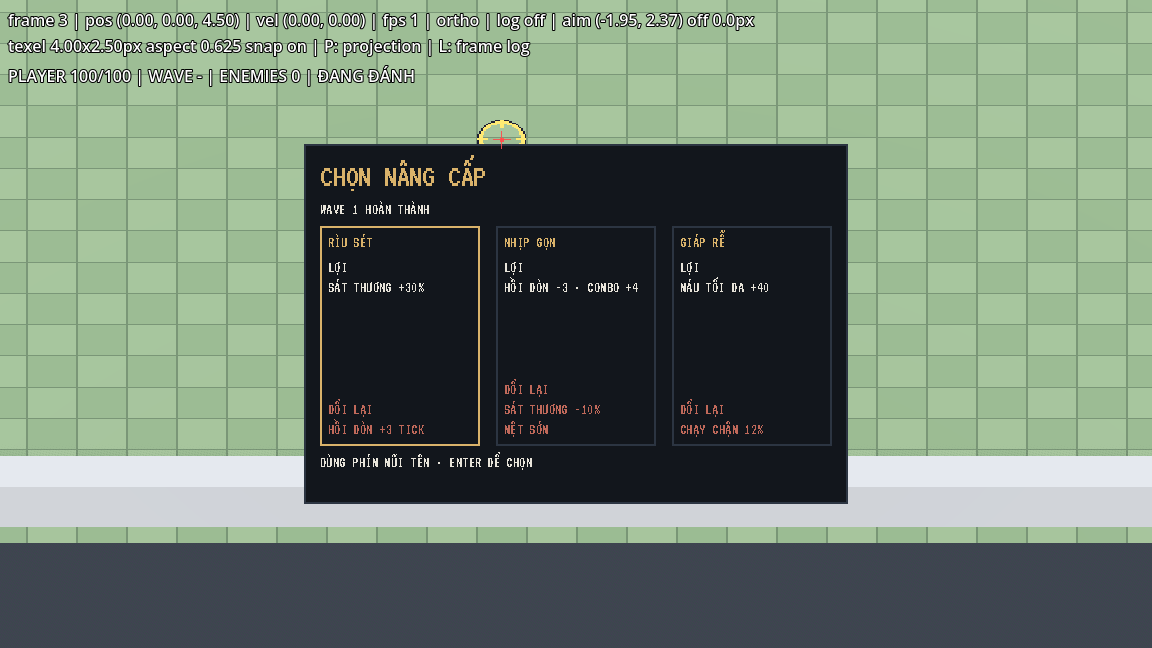
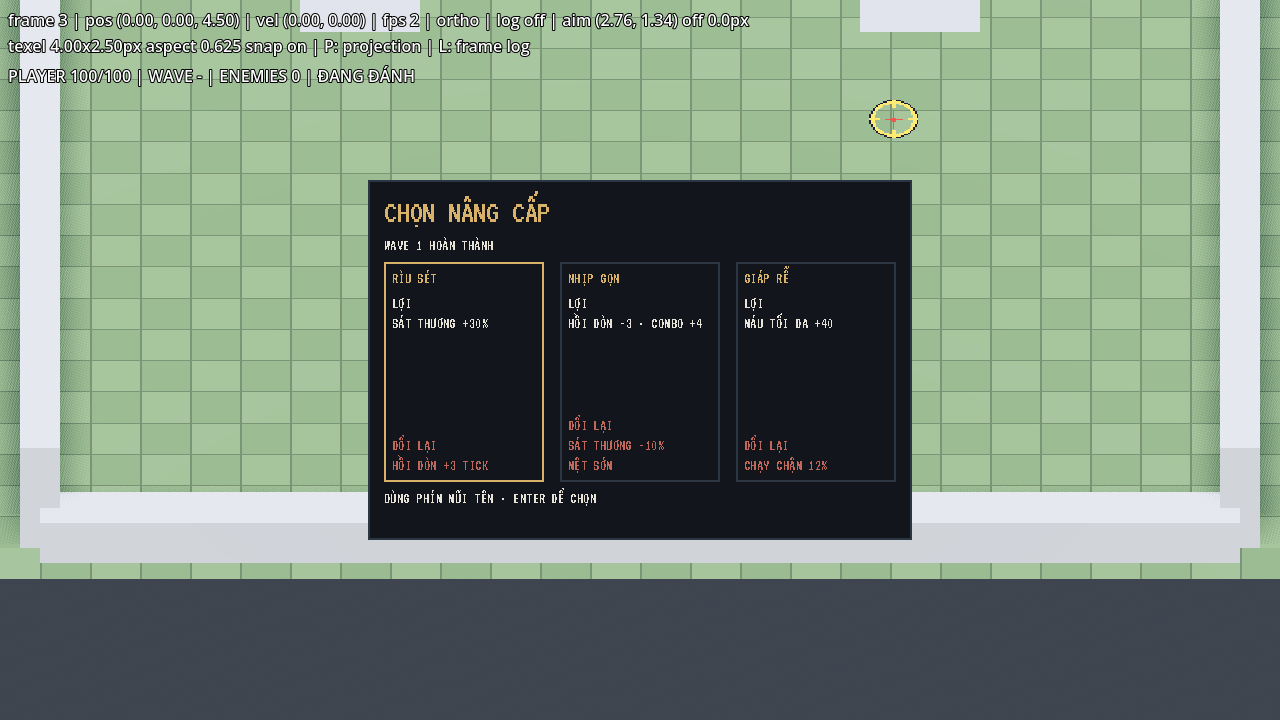
fix(T-030): keep card units and measure copy width
- Restore TICK on the two cost strings that fit the 144 px card area
  (RA ĐÒN CHẬM 2 TICK = 115.2 px, CỬA SỔ COMBO -4 TICK = 128 px) so the
  panel stops mixing units; no layout risk, both stay one line.
- Add T30.4 to test_buff_choice: load the shipped VT323 and assert every
  pool title/gain/cost line is <= 144 px, so a future copy edit cannot
  silently regress the width law.
- Re-capture the T-030 evidence at 1280x720 for consistency with the
  T-029/T-030 image sets; STATE drops the stale snake_case sheet issue,
  refreshes the script count (77) and buff_choice count (17); spec
  coverage now 98 glyphs.
- Validation: --import exit 0; test_font_coverage 3 checks / 98 glyphs
  exit 0 (negative exit 1); test_buff_choice 17 checks exit 0 (negative
  3/17 exit 1); capture checks=4 failures=0 band_diff=195840, control
  0 px; L2 grove_arena 120 frames exit 0, 0 SCRIPT ERROR.

Changed region(s): [[0.0, 0.0, 1.0, 0.8642]]

diff --git a/docs/STATE.md b/docs/STATE.md
@@ -2,7 +2,7 @@
 Cập nhật: 2026-11-21 (Project Day 3) | Branch: `phase-d/t030-wave-buff-choice` (T-030, D-021…D-025) — Phase C đã đóng theo D-018, **Phase D đang mở**
 
 ## Phase hiện tại
-Phase B — Combat Prototype (bắt đầu 2026-11-20). Phase A thoát theo **D-009 waiver**: gates 1–5 đạt (D-007/D-008 Accepted; lưới pixel khóa, anchor_dev = sprite_dev = 0, residual 0 px); L4 playtest Phase A **Not Run** — cảm nhận gom vào L4 Phase B cùng build. **T-008 DONE**: gate definitions Phase B (B1–B7, D1–D3) user xác nhận 2026-11-20; COMBAT_SPEC APPROVED; `combat_tuning.tres` + physics layers 3–6 + InputMap combat sẵn sàng; D-010 mouse snapshot. **T-009 DONE**: kernel thuần logic (AttackState/InputBuffer/DodgeState/Health/HitRegistry) + test 92 checks; negative control fail đúng 3 check duplicate (exit 1). **T-010 DONE**: player combat (hitbox/hurtbox Area3D, mouse-snapshot hitbox, swing arc, hitstop, combat log CSV, F1 overlay) — log in-scene 1 hit/1 damage cho 1 swing, hit trong active window, hitstop +3 tick; 5 ảnh evidence đã xem. **T-011 DONE**: Grunt AI thuần logic (idle→chase→telegraph→active→recovery, alert event, telegraph lock-in) + node (chase, telegraph visual, damage player, death); test 16 checks; capture 6 ảnh: telegraph 20 frame đúng tuning, 1 hit/attack, player→Grunt 1 hit/1 damage, player death log. **T-012 DONE**: encounter loop (thắng/thua/reset R sau 120 tick, 10 run liên tiếp headless) + HUD HP trạng thái; 4 ảnh HUD đã xem; capture có `encounter_win` (3 đòn, frame 90) → reset 210 → `encounter_lose` 542. **T-013**: Playtest Brief sẵn sàng (`docs/phase-b/PLAYTEST_BRIEF.md`) — chờ user L4. **T-014 DONE**: automated gate B2/B3/D Passed với negative controls (B2: 12 swing 1 hit/damage, kernel 98 checks; B3: 10 trial alert 0 tick, telegraph 1.292, wall_min 0.350; D1–D3 đủ evidence); B4.1/4.2 đạt, B4.3 chờ L4; ẩn placeholder telegraph quanh player trước L4. **T-015 DONE**: L4 session 13 run liền (11 W hợp lệ, 2 run user cố ý đứng yên bị loại, 12 reset, 0 SCRIPT ERROR) + dodge run riêng (20 Space, W) — B1/B4/B5/B6 Passed; B7 Incomplete vì B7.3 **Not Run** (chưa test spam thuần, user chưa muốn thêm cơ chế); Phase B exit chưa đạt. **T-016 DONE**: harness spam 10 run — **10/10 W**, 87 tick/run, mỗi run ăn 1 hit mà không chết; passive control 10/10 L (332 tick/run) → **B7.3 Fail, B7 Failed**. **D-012 waiver (MP 8.6)**: user duyệt thoát Phase B 2026-11-20 — B7 giữ Failed; cơ chế GDD 6.8.7 ở backlog, B7.3 phải test lại khi cơ chế được thêm. **Phase C kickoff (T-017)**: user chốt scope 2026-11-20 — 3 vai trò (Grunt + Swarm + Ranged), mini-boss 2 phase, reward shortcut + hồi máu; `docs/phase-c/OPERATIONAL_DEFINITIONS.md` (C1–C3, E1–E5, D1–D3) **CONFIRMED** 2026-11-20 (user "y"); D-013 ghi scope. **T-018 DONE**: arena `scenes/phase_c/grove_arena.tscn` (player + camera + 3 trụ fade + Gate placeholder) + wave kernel thuần logic (3 wave 5/4/1, pause 60 tick, reset, win/lose) + `WaveEncounter`/`WaveHUD` + Grunt scene tái dùng AI T-011; harness 10 run full wave flow `runs=10 wins=10 losses=0 max_wave=3 reset_checks=true ticks=10292` exit 0 (negative exit 1); cổng/reward còn placeholder (T-022). **T-020 DONE**: Ranged + projectile — kite band 3.5–7.0 m, ngoài max không engage/bắn, telegraph 24 (≥ floor 18), active 4, recovery 30, projectile 6 m/s/lifetime 120 tick/damage 8; wave 2 = 2 Swarm + 2 Ranged, reset clear projectile; log `projectile_fire/hit/despawn` (+`damage`) theo attack_id; harness `run_t020_ranged` `checks=14 failures=0` exit 0, negative (range gate 100 m) `fires=2` → ASSERT E2.1 exit 1; regression t018 `runs=10 wins=10 max_wave=3 ticks=6902`, t019 `runs=3 wins=3 swarms=3 ticks=2072`. **T-021 DONE**: Mini-boss Grove Warden — HP 300, 3 đòn (smash 30/6/30 dmg 20 r2.2 · lunge 24/8/24 dmg 12 tầm 5 · sweep phase 2 20/6/24 dmg 10 r2.6), phase 2 tại HP ≤ 50% qua đòn SWITCH telegraph 45 không damage, phase 2 nhanh hơn qua recovery (20/16), mọi telegraph ≥18; wave 3 = boss, HUD hiện boss HP + phase; harness E3 `checks=41 failures=0`, negative (threshold 0) fail đúng E3.2 exit 1; capture 5 ảnh telegraph đã xem; regression t018 `runs=10 wins=10 ticks=12722`, t019 `runs=3 wins=3 ticks=3818`, t020 `checks=14`. **T-022 DONE**: Reward — boss chết → `reward_granted` (value 1, đúng 1 lần/run) + cổng bắc mở (tắt collision, ẩn mesh) + shrine phía sau cổng hồi **full HP một lần** khi player chạm (log `heal` value = amount); R đóng cổng + khóa shrine; **win không còn auto-reset** (user chốt 2026-11-20) để player đi bộ qua shortcut, lose vẫn auto-reset 120 tick; NorthFence chặn rìa bắc. Harness E4 `checks=14 failures=0`, negative (ngắt hook reward) fail đúng E4.2 `granted=0` exit 1; capture 3 ảnh before/after đã xem; regression t018 `runs=10 wins=10 ticks=11531`, t019 3/3 ticks=3460, t020 14 checks, t021 41 checks, `test_reward_kernel` 18 checks (negative exit 1), combat kernel 98 checks. **T-023 DONE**: E1–E5 tự chấm bằng **một lệnh** `node tools/run_evidence.mjs` — 17 evidence id, 7 positive + 7 negative control (mỗi negative phải exit 1 **và** đỏ đúng id đã khai), `--selftest` proof thước đo còn biết báo đỏ; điều kiện tiên quyết E1–E5 cho L4 đã đủ. **T-024 IMPLEMENTED** (chơi L4 thuộc user, MP 5.3): `tools/score_l4.mjs` đo phần khách quan của C1/C3 từ CSV session (10 mutation fixture, selftest đỏ đúng lý do), `run_arena.bat` + `docs/phase-c/PLAYTEST_BRIEF.md` khóa build & tuning cho session; khi viết tool, log 10-run của harness cho thấy **boss lặp đòn SWITCH 2 lần/run** (10/10, `boss_phase` 2 dòng) → user duyệt sửa trước khi chơi: `report_damage` không re-arm lúc SWITCH đang chạy (`3fba5fe`), test_boss_ai thêm ca "hit trong cửa sổ switch" (đỏ 2 fail trước, 30/0 sau), E3 + E1–E5 chạy lại xanh. **3 run L4 đầu: 0/3 win**, cả 3 thua ở wave 3 sau 3,6–8,4 s, boss còn 270–290/300 HP, lunge gây **64% damage của boss** trong khi telegraph vẫn ≥ 24 frame → không phải lỗi đọc mà là nhịp; **D-014** nâng cửa sổ phạt lunge (recovery 24→36, phase 2 16→24), các harness E3/t018 chạy lại exit 0. **T-025 IMPLEMENTED** (rig đo L4, D-015): `L4Probe` ghi `user://l4_probe.csv` (sample 10 Hz + 1 row mỗi đòn player ăn: cửa sổ telegraph thực tế sau khi trừ hitstop, có di chuyển không, dodge có sẵn không, áp sát trụ/tường, ai kết liễu, boss còn bao nhiêu HP, fps) + PNG đúng frame chết; `play_arena.tscn` mount rig lên arena trần (không sửa scene game) và là harness tự kiểm (`-- auto` / `-- auto passive` / `-- auto negative`, checks=8 failures=0, negative đỏ đúng P25.2, PNG 254 KB đã xem); `score_l4.mjs --probe` in readable-share / punish window used-over-open / fps min-median, selftest 12/12. Bài học: bot đứng yên cách spawn địch 9 m > detect 6 m nên hits=0 và check xanh rỗng -> bot phải đi bằng InputMap thật. E1–E5 chạy lại PASSED, 4 unit test + t021 exit 0. **T-026 DONE** (D-017): body boss che player xử lý bằng `SelfMarker` — ring 0,9 m dưới chân vẽ xuyên (`no_depth_test` + `render_priority` trên material), texture code-gen theo texel 0,05 m; harness `capture_t026.tscn` đặt boss phía camera che kín sprite rồi tắt/mở ring: **1280 px** đổi trong box 80 px (ngưỡng 40), negative control cùng pose depth-tested **0 px**. Bài học: capture từng trả ảnh đen vì `await physics_frame` không đảm bảo frame đã vẽ → dùng `RenderingServer.frame_post_draw` và thêm check P26.3 "ảnh có pixel sáng" để control không thể xanh rỗng. **Phase C ĐÓNG 2026-11-21 theo D-018**: 4 run hợp lệ tiếp theo (session4) không qua ngưỡng nào của luật đã ghi trước, và metric punish cũ đọc sai đơn vị (đã sửa `5750569`: cửa sổ = 43–62% thời gian đánh boss, mang 50–100% sát thương) → nút thắt là throughput (≈4,8 dmg/s ⇒ TTK ≈63 s cho 300 HP) chứ không phải visibility hay nhịp; user chọn không đổi tham số; `node tools/run_evidence.mjs` chạy lại trên build chốt: `runs=7 negatives=7 ids=17 failures=0`. **T-027 DONE (D-019, 2026-11-21)**: trả một phần nợ GDD 6.8.7 bằng cơ chế **mệt nhịp độ** — recovery dài thêm theo số đòn liên tiếp (free 3, step +4, cap +12, decay 6), chỉ player, không stagger, không đổi số enemy; né xoá mệt, đứng/đi 6 tick trừ một cấp. Luật đo được: `paced = 17 + decay` vs `mash = 17 + cap` ⇒ **phải decay < cap** cơ chế mới có nghĩa (với decay = cap, mash 3,48 đòn/100t còn dày hơn paced 3,27). Harness `run_t027_tempo.tscn`: P27.1–P27.5 xanh (paced gây 420 damage vs mash 360, cùng ăn 21 đòn), negative control đỏ 3 check exit 1; kernel 107 checks + tempo 15 checks, E1–E5 vẫn `failures=0`; **B7.3 vẫn 10/10 W** (mỗi run ~5 đòn, chỉ đòn thứ 5 trả 4 tick mệt → thắng/thua không đổi) nên B7 giữ Failed. **T-028 DONE (D-020, 2026-11-21)**: `scenes/ui/title_screen.tscn` thành main scene — tiêu đề + Start/Option/Credit trên nền grove drift; nền là `title_backdrop.tscn` dựng riêng **không** instance arena vì `WaveEncounter` mồi wave tại frame 1, dùng lại `PlaceholderTextures` + `CameraRig` (drift qua `DriftPath`, whole-pixel snap nên giữ luật texel D-008); Option/Credit enabled-but-inert theo yêu cầu; `tests/test_title_entry.gd` 14 checks exit 0 (push `InputEventKey` thật vào window, không gọi signal tắt) + negative exit 1 + 3 mutation proof; L3 `capture_title.tscn` band_diff 2546 px / control cùng pose 0 px, 3 ảnh đã xem. **Phase D MỞ 2026-11-21 (D-021)**: ba task UI/progression trước MVS field — T-029 → T-031 → T-030; MVS-AC1…8 vẫn PROPOSED. **T-029 DONE (D-022…D-024, 2026-11-21)**: `PlayerStats` (`RefCounted` thuần) là **nguồn runtime duy nhất** — base `combat_tuning.tres` immutable, `floor((base + Σ add) × Π mult)`, frame kẹp ≥1, float ≥0,1; `PlayerCombat` là nơi ghi duy nhất (`health.max_hp`, `player.speed`, cửa sổ `AttackState` lúc swing bắt đầu), luật giữ bằng máy `tools/check_stat_source.mjs` (`stat-source clean: 68 scripts` lúc chốt, **72** hiện tại; `--selftest` `violations=1 allowed_hit=0`); `test_player_stats` **16 checks** exit 0 (negative 6/16 exit 1; **33** sau T-030). Theme code-gen `Hd2dTheme` với font **VT323** (Peter Hull, OFL 1.1, ASSET_LOG + `OFL-VT323.txt`) sau khi **m5x7 bị gate loại** (cmap thiếu 17 glyph tiếng Việt gồm `Ơ ơ Ư` + block U+1EA0–U+1EF9 + em dash), cỡ chữ **bội số 16** (16 body / 32 title), hình học bội số 4 (sheet 480×320, card 160×220); `test_font_coverage` 3 checks / **79 glyphs** / cmap 567 (**98** sau T-030), `test_theme` 9 checks (**13** sau T-030). Bảng trạng thái ESC (`CharacterSheet` CanvasLayer, `PROCESS_MODE_ALWAYS`, pause thật khi mở, mount **cuối** trong `grove_arena.tscn` nên vẽ trên `WaveHUD`); `test_character_sheet` **8/8** exit 0 (negative 1/8 exit 1); **L3** `scenes/ui/capture_sheet.tscn` `checks=3 failures=0 band_diff=153600` (đúng 480×320 px panel, ngưỡng 40), control cùng pose **0 px**, lit 230128–230134 px, 3 ảnh `docs/phase-d/evidence/t029/` đã xem thật. Regression cuối task: `run_evidence` `runs=7 negatives=7 ids=17 failures=0 seconds=109`, 19/19 suite exit 0, arena 120 frame + `capture_title` exit 0, 0 `SCRIPT ERROR`. **T-030 DONE (D-025, 2026-11-21)**: chọn buff sau wave — `BUFF_PENDING` sau flag `buff_pick_enabled` mặc định tắt, opt-in bằng mount `BuffChoice` (presence = enable); seed per-run log `buff/buff_seed`, mỗi pick log `buff/buff_pick` = index 1-based trong pool; `auto_pick` dùng cho harness T-030 và L4 bot mode; ESC bị bỏ qua khi đang chọn; `SwingArc` dài theo reach (const 1.4). Số đo: `wave_kernel` 21, `buff_kernel` 17, `buff_choice` 16 (negative 3/16 exit 1), `player_stats` **33**, `theme` **13**, `stats_live` **18**, sheet 8, law `clean: 77 scripts` + selftest; harness `run_t030_buffs` `runs=10 wins=10 picks=20 mods_ok=true dmg=5200 hits=558 fight_ticks=17848 dmg_per_s=17.5` (teleport + top HP mỗi tick ⇒ **không so được** 4,8 của D-018, không phải số balance); L3 `capture_buffs` `checks=4 failures=0 band_diff=195840` (544×360) + control 0 px, ảnh đã xem (không wrap, không cắt); `run_evidence` `runs=7 negatives=7 ids=17 failures=0`; **22/22** suite + L2 `grove_arena`/`play_arena` exit 0, 0 `SCRIPT ERROR`. Card copy rút ngắn cho 144 px (prefix `LỢI`/`ĐỔI LẠI` xuống dòng riêng; `NHỊP GỌN` cost 2 dòng chủ đích).
+Phase B — Combat Prototype (bắt đầu 2026-11-20). Phase A thoát theo **D-009 waiver**: gates 1–5 đạt (D-007/D-008 Accepted; lưới pixel khóa, anchor_dev = sprite_dev = 0, residual 0 px); L4 playtest Phase A **Not Run** — cảm nhận gom vào L4 Phase B cùng build. **T-008 DONE**: gate definitions Phase B (B1–B7, D1–D3) user xác nhận 2026-11-20; COMBAT_SPEC APPROVED; `combat_tuning.tres` + physics layers 3–6 + InputMap combat sẵn sàng; D-010 mouse snapshot. **T-009 DONE**: kernel thuần logic (AttackState/InputBuffer/DodgeState/Health/HitRegistry) + test 92 checks; negative control fail đúng 3 check duplicate (exit 1). **T-010 DONE**: player combat (hitbox/hurtbox Area3D, mouse-snapshot hitbox, swing arc, hitstop, combat log CSV, F1 overlay) — log in-scene 1 hit/1 damage cho 1 swing, hit trong active window, hitstop +3 tick; 5 ảnh evidence đã xem. **T-011 DONE**: Grunt AI thuần logic (idle→chase→telegraph→active→recovery, alert event, telegraph lock-in) + node (chase, telegraph visual, damage player, death); test 16 checks; capture 6 ảnh: telegraph 20 frame đúng tuning, 1 hit/attack, player→Grunt 1 hit/1 damage, player death log. **T-012 DONE**: encounter loop (thắng/thua/reset R sau 120 tick, 10 run liên tiếp headless) + HUD HP trạng thái; 4 ảnh HUD đã xem; capture có `encounter_win` (3 đòn, frame 90) → reset 210 → `encounter_lose` 542. **T-013**: Playtest Brief sẵn sàng (`docs/phase-b/PLAYTEST_BRIEF.md`) — chờ user L4. **T-014 DONE**: automated gate B2/B3/D Passed với negative controls (B2: 12 swing 1 hit/damage, kernel 98 checks; B3: 10 trial alert 0 tick, telegraph 1.292, wall_min 0.350; D1–D3 đủ evidence); B4.1/4.2 đạt, B4.3 chờ L4; ẩn placeholder telegraph quanh player trước L4. **T-015 DONE**: L4 session 13 run liền (11 W hợp lệ, 2 run user cố ý đứng yên bị loại, 12 reset, 0 SCRIPT ERROR) + dodge run riêng (20 Space, W) — B1/B4/B5/B6 Passed; B7 Incomplete vì B7.3 **Not Run** (chưa test spam thuần, user chưa muốn thêm cơ chế); Phase B exit chưa đạt. **T-016 DONE**: harness spam 10 run — **10/10 W**, 87 tick/run, mỗi run ăn 1 hit mà không chết; passive control 10/10 L (332 tick/run) → **B7.3 Fail, B7 Failed**. **D-012 waiver (MP 8.6)**: user duyệt thoát Phase B 2026-11-20 — B7 giữ Failed; cơ chế GDD 6.8.7 ở backlog, B7.3 phải test lại khi cơ chế được thêm. **Phase C kickoff (T-017)**: user chốt scope 2026-11-20 — 3 vai trò (Grunt + Swarm + Ranged), mini-boss 2 phase, reward shortcut + hồi máu; `docs/phase-c/OPERATIONAL_DEFINITIONS.md` (C1–C3, E1–E5, D1–D3) **CONFIRMED** 2026-11-20 (user "y"); D-013 ghi scope. **T-018 DONE**: arena `scenes/phase_c/grove_arena.tscn` (player + camera + 3 trụ fade + Gate placeholder) + wave kernel thuần logic (3 wave 5/4/1, pause 60 tick, reset, win/lose) + `WaveEncounter`/`WaveHUD` + Grunt scene tái dùng AI T-011; harness 10 run full wave flow `runs=10 wins=10 losses=0 max_wave=3 reset_checks=true ticks=10292` exit 0 (negative exit 1); cổng/reward còn placeholder (T-022). **T-020 DONE**: Ranged + projectile — kite band 3.5–7.0 m, ngoài max không engage/bắn, telegraph 24 (≥ floor 18), active 4, recovery 30, projectile 6 m/s/lifetime 120 tick/damage 8; wave 2 = 2 Swarm + 2 Ranged, reset clear projectile; log `projectile_fire/hit/despawn` (+`damage`) theo attack_id; harness `run_t020_ranged` `checks=14 failures=0` exit 0, negative (range gate 100 m) `fires=2` → ASSERT E2.1 exit 1; regression t018 `runs=10 wins=10 max_wave=3 ticks=6902`, t019 `runs=3 wins=3 swarms=3 ticks=2072`. **T-021 DONE**: Mini-boss Grove Warden — HP 300, 3 đòn (smash 30/6/30 dmg 20 r2.2 · lunge 24/8/24 dmg 12 tầm 5 · sweep phase 2 20/6/24 dmg 10 r2.6), phase 2 tại HP ≤ 50% qua đòn SWITCH telegraph 45 không damage, phase 2 nhanh hơn qua recovery (20/16), mọi telegraph ≥18; wave 3 = boss, HUD hiện boss HP + phase; harness E3 `checks=41 failures=0`, negative (threshold 0) fail đúng E3.2 exit 1; capture 5 ảnh telegraph đã xem; regression t018 `runs=10 wins=10 ticks=12722`, t019 `runs=3 wins=3 ticks=3818`, t020 `checks=14`. **T-022 DONE**: Reward — boss chết → `reward_granted` (value 1, đúng 1 lần/run) + cổng bắc mở (tắt collision, ẩn mesh) + shrine phía sau cổng hồi **full HP một lần** khi player chạm (log `heal` value = amount); R đóng cổng + khóa shrine; **win không còn auto-reset** (user chốt 2026-11-20) để player đi bộ qua shortcut, lose vẫn auto-reset 120 tick; NorthFence chặn rìa bắc. Harness E4 `checks=14 failures=0`, negative (ngắt hook reward) fail đúng E4.2 `granted=0` exit 1; capture 3 ảnh before/after đã xem; regression t018 `runs=10 wins=10 ticks=11531`, t019 3/3 ticks=3460, t020 14 checks, t021 41 checks, `test_reward_kernel` 18 checks (negative exit 1), combat kernel 98 checks. **T-023 DONE**: E1–E5 tự chấm bằng **một lệnh** `node tools/run_evidence.mjs` — 17 evidence id, 7 positive + 7 negative control (mỗi negative phải exit 1 **và** đỏ đúng id đã khai), `--selftest` proof thước đo còn biết báo đỏ; điều kiện tiên quyết E1–E5 cho L4 đã đủ. **T-024 IMPLEMENTED** (chơi L4 thuộc user, MP 5.3): `tools/score_l4.mjs` đo phần khách quan của C1/C3 từ CSV session (10 mutation fixture, selftest đỏ đúng lý do), `run_arena.bat` + `docs/phase-c/PLAYTEST_BRIEF.md` khóa build & tuning cho session; khi viết tool, log 10-run của harness cho thấy **boss lặp đòn SWITCH 2 lần/run** (10/10, `boss_phase` 2 dòng) → user duyệt sửa trước khi chơi: `report_damage` không re-arm lúc SWITCH đang chạy (`3fba5fe`), test_boss_ai thêm ca "hit trong cửa sổ switch" (đỏ 2 fail trước, 30/0 sau), E3 + E1–E5 chạy lại xanh. **3 run L4 đầu: 0/3 win**, cả 3 thua ở wave 3 sau 3,6–8,4 s, boss còn 270–290/300 HP, lunge gây **64% damage của boss** trong khi telegraph vẫn ≥ 24 frame → không phải lỗi đọc mà là nhịp; **D-014** nâng cửa sổ phạt lunge (recovery 24→36, phase 2 16→24), các harness E3/t018 chạy lại exit 0. **T-025 IMPLEMENTED** (rig đo L4, D-015): `L4Probe` ghi `user://l4_probe.csv` (sample 10 Hz + 1 row mỗi đòn player ăn: cửa sổ telegraph thực tế sau khi trừ hitstop, có di chuyển không, dodge có sẵn không, áp sát trụ/tường, ai kết liễu, boss còn bao nhiêu HP, fps) + PNG đúng frame chết; `play_arena.tscn` mount rig lên arena trần (không sửa scene game) và là harness tự kiểm (`-- auto` / `-- auto passive` / `-- auto negative`, checks=8 failures=0, negative đỏ đúng P25.2, PNG 254 KB đã xem); `score_l4.mjs --probe` in readable-share / punish window used-over-open / fps min-median, selftest 12/12. Bài học: bot đứng yên cách spawn địch 9 m > detect 6 m nên hits=0 và check xanh rỗng -> bot phải đi bằng InputMap thật. E1–E5 chạy lại PASSED, 4 unit test + t021 exit 0. **T-026 DONE** (D-017): body boss che player xử lý bằng `SelfMarker` — ring 0,9 m dưới chân vẽ xuyên (`no_depth_test` + `render_priority` trên material), texture code-gen theo texel 0,05 m; harness `capture_t026.tscn` đặt boss phía camera che kín sprite rồi tắt/mở ring: **1280 px** đổi trong box 80 px (ngưỡng 40), negative control cùng pose depth-tested **0 px**. Bài học: capture từng trả ảnh đen vì `await physics_frame` không đảm bảo frame đã vẽ → dùng `RenderingServer.frame_post_draw` và thêm check P26.3 "ảnh có pixel sáng" để control không thể xanh rỗng. **Phase C ĐÓNG 2026-11-21 theo D-018**: 4 run hợp lệ tiếp theo (session4) không qua ngưỡng nào của luật đã ghi trước, và metric punish cũ đọc sai đơn vị (đã sửa `5750569`: cửa sổ = 43–62% thời gian đánh boss, mang 50–100% sát thương) → nút thắt là throughput (≈4,8 dmg/s ⇒ TTK ≈63 s cho 300 HP) chứ không phải visibility hay nhịp; user chọn không đổi tham số; `node tools/run_evidence.mjs` chạy lại trên build chốt: `runs=7 negatives=7 ids=17 failures=0`. **T-027 DONE (D-019, 2026-11-21)**: trả một phần nợ GDD 6.8.7 bằng cơ chế **mệt nhịp độ** — recovery dài thêm theo số đòn liên tiếp (free 3, step +4, cap +12, decay 6), chỉ player, không stagger, không đổi số enemy; né xoá mệt, đứng/đi 6 tick trừ một cấp. Luật đo được: `paced = 17 + decay` vs `mash = 17 + cap` ⇒ **phải decay < cap** cơ chế mới có nghĩa (với decay = cap, mash 3,48 đòn/100t còn dày hơn paced 3,27). Harness `run_t027_tempo.tscn`: P27.1–P27.5 xanh (paced gây 420 damage vs mash 360, cùng ăn 21 đòn), negative control đỏ 3 check exit 1; kernel 107 checks + tempo 15 checks, E1–E5 vẫn `failures=0`; **B7.3 vẫn 10/10 W** (mỗi run ~5 đòn, chỉ đòn thứ 5 trả 4 tick mệt → thắng/thua không đổi) nên B7 giữ Failed. **T-028 DONE (D-020, 2026-11-21)**: `scenes/ui/title_screen.tscn` thành main scene — tiêu đề + Start/Option/Credit trên nền grove drift; nền là `title_backdrop.tscn` dựng riêng **không** instance arena vì `WaveEncounter` mồi wave tại frame 1, dùng lại `PlaceholderTextures` + `CameraRig` (drift qua `DriftPath`, whole-pixel snap nên giữ luật texel D-008); Option/Credit enabled-but-inert theo yêu cầu; `tests/test_title_entry.gd` 14 checks exit 0 (push `InputEventKey` thật vào window, không gọi signal tắt) + negative exit 1 + 3 mutation proof; L3 `capture_title.tscn` band_diff 2546 px / control cùng pose 0 px, 3 ảnh đã xem. **Phase D MỞ 2026-11-21 (D-021)**: ba task UI/progression trước MVS field — T-029 → T-031 → T-030; MVS-AC1…8 vẫn PROPOSED. **T-029 DONE (D-022…D-024, 2026-11-21)**: `PlayerStats` (`RefCounted` thuần) là **nguồn runtime duy nhất** — base `combat_tuning.tres` immutable, `floor((base + Σ add) × Π mult)`, frame kẹp ≥1, float ≥0,1; `PlayerCombat` là nơi ghi duy nhất (`health.max_hp`, `player.speed`, cửa sổ `AttackState` lúc swing bắt đầu), luật giữ bằng máy `tools/check_stat_source.mjs` (`stat-source clean: 68 scripts` lúc chốt, **77** hiện tại; `--selftest` `violations=1 allowed_hit=0`); `test_player_stats` **16 checks** exit 0 (negative 6/16 exit 1; **33** sau T-030). Theme code-gen `Hd2dTheme` với font **VT323** (Peter Hull, OFL 1.1, ASSET_LOG + `OFL-VT323.txt`) sau khi **m5x7 bị gate loại** (cmap thiếu 17 glyph tiếng Việt gồm `Ơ ơ Ư` + block U+1EA0–U+1EF9 + em dash), cỡ chữ **bội số 16** (16 body / 32 title), hình học bội số 4 (sheet 480×320, card 160×220); `test_font_coverage` 3 checks / **79 glyphs** / cmap 567 (**98** sau T-030), `test_theme` 9 checks (**13** sau T-030). Bảng trạng thái ESC (`CharacterSheet` CanvasLayer, `PROCESS_MODE_ALWAYS`, pause thật khi mở, mount **cuối** trong `grove_arena.tscn` nên vẽ trên `WaveHUD`); `test_character_sheet` **8/8** exit 0 (negative 1/8 exit 1); **L3** `scenes/ui/capture_sheet.tscn` `checks=3 failures=0 band_diff=153600` (đúng 480×320 px panel, ngưỡng 40), control cùng pose **0 px**, lit 230128–230134 px, 3 ảnh `docs/phase-d/evidence/t029/` đã xem thật. Regression cuối task: `run_evidence` `runs=7 negatives=7 ids=17 failures=0 seconds=109`, 19/19 suite exit 0, arena 120 frame + `capture_title` exit 0, 0 `SCRIPT ERROR`. **T-030 DONE (D-025, 2026-11-21)**: chọn buff sau wave — `BUFF_PENDING` sau flag `buff_pick_enabled` mặc định tắt, opt-in bằng mount `BuffChoice` (presence = enable); seed per-run log `buff/buff_seed`, mỗi pick log `buff/buff_pick` = index 1-based trong pool; `auto_pick` dùng cho harness T-030 và L4 bot mode; ESC bị bỏ qua khi đang chọn; `SwingArc` dài theo reach (const 1.4). Số đo: `wave_kernel` 21, `buff_kernel` 17, `buff_choice` 17 (negative 3/17 exit 1), `player_stats` **33**, `theme` **13**, `stats_live` **18**, sheet 8, law `clean: 77 scripts` + selftest; harness `run_t030_buffs` `runs=10 wins=10 picks=20 mods_ok=true dmg=5200 hits=558 fight_ticks=17848 dmg_per_s=17.5` (teleport + top HP mỗi tick ⇒ **không so được** 4,8 của D-018, không phải số balance); L3 `capture_buffs` `checks=4 failures=0 band_diff=195840` (544×360) + control 0 px, ảnh đã xem (không wrap, không cắt); `run_evidence` `runs=7 negatives=7 ids=17 failures=0`; **22/22** suite + L2 `grove_arena`/`play_arena` exit 0, 0 `SCRIPT ERROR`. Card copy rút ngắn cho 144 px (prefix `LỢI`/`ĐỔI LẠI` xuống dòng riêng; `NHỊP GỌN` cost 2 dòng chủ đích; cost giữ đơn vị `TICK`; `test_buff_choice` T30.4 đo mọi dòng ≤144 px bằng font thật).
 
 ## Build: chạy được? (có/không) — cách chạy
 Có (scene load được). Scene chính: `res://scenes/ui/title_screen.tscn` (T-028 — menu vào game: tiêu đề + Start/Option/Credit trên nền grove trôi chậm; Start fade 0,25 s rồi mở arena, Option/Credit chưa có tương tác). Playground Phase A không còn là main scene: chạy bằng `run.bat res://scenes/phase_a/phase_a_playground.tscn`. **Arena Phase C (3 wave + boss): double-click `run_arena.bat`** (T-024 — mở thẳng `res://scenes/phase_c/grove_arena.tscn`; dùng `run.bat <scene>` nếu cần thêm tham số). **Chạy không cần mở editor: `run.bat` ở root, hoặc VSCode Ctrl+Shift+B (task "godot: run game", `.vscode/tasks.json`)**; phím trong game: WASD di chuyển, chuột aim, LMB đánh (combo 3 hit), Space né, R reset encounter, **ESC bảng trạng thái (tạm dừng game)**, **mũi tên + Enter chọn buff sau wave 1/2**, F1 hitbox/hurtbox, P đổi persp/ortho, L frame log. HUD: HP player/Grunt + trạng thái (ĐANG ĐÁNH / THẮNG / THUA). L2 Passed: headless `--quit-after 120`, EXIT=0, không lỗi. Visual G1–G3 + lighting đã xem thật (Vulkan 1.4.323 Forward+ / Intel UHD, 1280×720).
@@ -121,7 +121,7 @@ MVS-AC1…8 (GDD mục 0, PROPOSED): chưa kiểm chứng — chưa có build ch
 ## Đang làm (≤2)
 **Phase D đang mở theo D-021 — T-030 DONE, T-031 kế tiếp.** Phase C đóng theo D-018 (waiver giữ nguyên, không đổi tham số). Việc đã chốt, giữ lại để truy vết:
 - T-031 | Damage numbers nổi trên quái (spec §4) | NEXT — pool 24 `Label`, `unproject_position` → integer px, gộp số 6 tick, toggle "Số sát thương" trong sheet | AC: L3 box-diff ≥40 px + overlap số↔telegraph = 0 px | Dep: T-029 xong
-- T-030 | Buff sau wave: pool 6 món, chọn 1/3 card, `BUFF_PENDING`, seed/pick log (D-025) | DONE — stats 33, buff kernel 17 + choice 16 (negative exit 1), harness `picks=20 mods_ok=true`, L3 band_diff 195840 / control 0 px, 22/22 suite | Dep: xong
+- T-030 | Buff sau wave: pool 6 món, chọn 1/3 card, `BUFF_PENDING`, seed/pick log (D-025) | DONE — stats 33, buff kernel 17 + choice 17 (negative exit 1), harness `picks=20 mods_ok=true`, L3 band_diff 195840 / control 0 px, 22/22 suite | Dep: xong
 - T-029 | `PlayerStats` + theme/khung UI + bảng trạng thái ESC (D-022…D-024) | DONE — stats 16 checks, law 72 script clean, coverage 79 glyphs, sheet 8/8, L3 band_diff 153600 / control 0 px, 3 ảnh đã xem | Dep: xong
 - T-027 | Mệt nhịp độ cho player (GDD 6.8.7, nợ D-012) | DONE — P27.1–P27.5 xanh, negative đỏ exit 1, kernel 107 + tempo 15 checks, E1–E5 `failures=0`, B7.3 vẫn 10/10 W → B7 giữ Failed | AC: một cơ chế, đo được, không đổi số enemy | Dep: xong
 - T-024 | L4 session trên `scenes/phase_c/play_arena.tscn` (arena + rig) | **DONE theo D-016 waiver** — 2 run hợp lệ, 0/2 win, Read/Fair 5/5, Fun 4/5, C1.3 đạt (thua do kỹ năng user); C1 Not Run / C2 Incomplete / C3 Partial, E1–E5 + D1–D3 Passed | Dep: xong
@@ -144,8 +144,8 @@ Phase C stretch (extended encounter, GDD mục 12) → Phase D MVS (field Verdan
 
 ## Known issues
 - **(T-029 → T-030) Số buff / DPS Phase D là HYPOTHESIS — L4 quyết định:** T-030 đo được `dmg_per_s=17.5` nhưng bằng harness teleport sát địch + top HP mỗi tick, **không so được** baseline 4,8 dmg/s của D-018 (build chưa buff, đo bằng người thật); muốn thay số balance phải chơi thật kèm seed + danh sách buff trong log.
-- **(T-029) Nợ UI:** toggle "Số sát thương" chưa có (T-031); `WaveHUD` chưa vào theme/palette (restyle ngoài scope T-029); sheet set `get_tree().paused` không có pause-stack nên overlay thứ hai (T-030/T-031) phải xử lý trước khi cùng pause; sheet in id snake_case của buff cho tới khi T-030 thêm tên hiển thị.
-- **(T-030) Nợ UI/pause:** pause vẫn là **bool trần, không stack** — `BuffChoice` và `CharacterSheet` không bao giờ cùng mở vì ESC bị nuốt trong `BUFF_PENDING`, nhưng overlay thứ ba (T-031) phải xử lý trước khi cùng pause; card copy đã rút ngắn trong T-030 cho 144 px (prefix `LỢI`/`ĐỔI LẠI` xuống dòng riêng, `NHỊP GỌN` cost 2 dòng chủ đích); sheet là **480×352** (thêm hàng WAVE/SEED) — khớp spec §7 + ghi chú D-024.
+- **(T-029) Nợ UI:** toggle "Số sát thương" chưa có (T-031); `WaveHUD` chưa vào theme/palette (restyle ngoài scope T-029); sheet set `get_tree().paused` không có pause-stack nên overlay thứ hai (T-030/T-031) phải xử lý trước khi cùng pause; buff row của sheet đã hiện tên pool kể từ T-030 (hết nợ id snake_case).
+- **(T-030) Nợ UI/pause:** pause vẫn là **bool trần, không stack** — `BuffChoice` và `CharacterSheet` không bao giờ cùng mở vì ESC bị nuốt trong `BUFF_PENDING`, nhưng overlay thứ ba (T-031) phải xử lý trước khi cùng pause; card copy đã rút ngắn trong T-030 cho 144 px (prefix `LỢI`/`ĐỔI LẠI` xuống dòng riêng, `NHỊP GỌN` cost 2 dòng chủ đích, cost giữ đơn vị `TICK`; `test_buff_choice` T30.4 đo mọi dòng ≤144 px); sheet là **480×352** (thêm hàng WAVE/SEED) — khớp spec §7 + ghi chú D-024.
 - **(T-029, tài liệu) Chỉ mục `DECISIONS.md` dừng ở D-013** (D-014…D-025 chỉ có mục riêng, không có dòng bảng) — nợ từ trước, T-029 không sửa nửa vời; dọn cùng một lượt khi rảnh.
 - **(T-025 tooling, đã sửa) Metric "punish window" đọc sai đơn vị:** `score_l4.mjs` in `hitsInRecovery/recoveryTicks` trong đó mẫu số là **số sample** (6 tick/sample) và tử số là **số đòn**, nên "6/97" bị đọc thành "94% cửa sổ bỏ trống". Đọc lại bằng trace `boss_hp`: cửa sổ chiếm 43–62% thời gian đánh boss và **50–100% sát thương lên boss nằm trong cửa sổ**. Column đổi thành `Recovery window (t, % fight)` + `Boss dmg in recovery (in/total, %)`; thêm bất biến **trace damage == log damage** (khớp trên cả 8 run thật) và hai fixture `probe-punish-used` (100%) / `probe-punish-unused` (0%) để thước đo biết báo cả hai chiều. Bẫy đã gặp khi viết fixture: `Number('') === 0` làm ô trống thành HP 0 → bịa ra 2090 damage; trace phải lọc theo ô **rỗng**, không theo `>= 0`.
 - **(T-025, đã kết luận) fps 19 không phải drop trong combat:** chỉ 6 sample frame 60–90; 1208 sample còn lại không mẫu nào <55 (mean 59,8) → warm-up shader/asset lúc launch. Scorer tách thành "play min 58 / launch min 19" và có fixture `probe-launch-noise` giữ điều này không hỏng âm thầm. Session 3 (sau ring) lặp lại cùng hiện tượng với biên dài hơn: các sample 26 fps nằm ở frame 60–**102**, trong khi `LAUNCH_FRAMES = 96` của scorer nên 26 lọt vào "play min". Vẫn là đuôi warm-up, không phải dip combat; C3.3 vốn **chẩn đoán, không có ngưỡng** (`ok: true`), nên muốn kết luận perf thật thì nâng cửa sổ frame theo dữ liệu chứ không thêm ngưỡng fps.
@@ -178,7 +178,7 @@ Phase C stretch (extended encounter, GDD mục 12) → Phase D MVS (field Verdan
 - **(G3, đánh đổi) Fade làm vật che ghostly** (mất cảm giác đặc); cần user chốt + cân nhắc outline khi fade. Ray đơn tâm player có thể sót che một phần.
 
 ## DONE gần đây (≤5)
-- T-030 | Buff sau wave: pool 6 món + chọn 1/3 card, `BUFF_PENDING`, seed/pick log, arc dài theo reach (D-025) | DONE — `test_buff_kernel` 17 + `test_buff_choice` 16 (negative 3/16 exit 1), `wave_kernel` 21, `player_stats` 33, `theme` 13, `stats_live` 18, sheet 8; law 77 script clean + selftest; harness `runs=10 wins=10 picks=20 mods_ok=true dmg_per_s=17.5` (teleport + top HP, **không so được** 4,8 của D-018); L3 `capture_buffs` `checks=4 failures=0 band_diff=195840` + control 0 px, ảnh đã xem; 22/22 suite + `run_evidence failures=0` xanh.
+- T-030 | Buff sau wave: pool 6 món + chọn 1/3 card, `BUFF_PENDING`, seed/pick log, arc dài theo reach (D-025) | DONE — `test_buff_kernel` 17 + `test_buff_choice` 17 (negative 3/17 exit 1), `wave_kernel` 21, `player_stats` 33, `theme` 13, `stats_live` 18, sheet 8; law 77 script clean + selftest; harness `runs=10 wins=10 picks=20 mods_ok=true dmg_per_s=17.5` (teleport + top HP, **không so được** 4,8 của D-018); L3 `capture_buffs` `checks=4 failures=0 band_diff=195840` + control 0 px, ảnh đã xem; 22/22 suite + `run_evidence failures=0` xanh.
 - T-029 | PlayerStats + theme/khung UI + bảng trạng thái ESC, mount trong arena (D-022…D-024) | DONE — `test_player_stats` 16 checks, `test_combat_kernel` 107, law 72 script clean + selftest, `test_font_coverage` 79 glyphs, `test_theme` 9, `test_character_sheet` 8/8 (negative 1/8); L3 `capture_sheet` `checks=3 failures=0 band_diff=153600` + control 0 px, 3 ảnh đã xem; 19/19 suite + `run_evidence failures=0` xanh.
 - T-028 | Màn hình title (menu vào game) | DONE — L1 4 script exit 0; `test_title_entry` 14 checks exit 0, negative exit 1, 3 mutation đỏ đúng check (grab_focus / label nút / gán title); L3 `capture_title` `checks=3 failures=0 band_diff=2546` + control 0 px, `docs/phase-d/evidence/t028/` đã xem; `run/main_scene` đổi sang title (D-020).
 - T-023 | Evidence suite E1–E5 + negative controls một lệnh | DONE — `node tools/run_evidence.mjs` exit 0 (`runs=7 negatives=7 ids=17 failures=0 seconds=58`), `--selftest` reject `E9.9`; E1.2/E1.3/E1.4 (`run_t023_onehit`, 40 window, blocked=90 duplicates=0) + E5.1/E5.2/E5.4 (`run_t023_flow`, runs=3 ticks=3361); L1 72 script 0 lỗi, 13/13 unit test exit 0; report `docs/phase-c/evidence/t023/`.

diff --git a/docs/phase-d/UI_PROGRESSION_SPEC.md b/docs/phase-d/UI_PROGRESSION_SPEC.md
@@ -141,7 +141,7 @@ player_died(): FIGHTING/PAUSED -> LOST (BUFF_PENDING không thể, world paused)
 - **Theme dựng bằng code:** `scripts/ui/hd2d_theme.gd` — `static func build() -> Theme`; StyleBox 9-slice sinh bằng code theo texel (cùng trường phái `PlaceholderTextures`), áp làm `theme` của UI root để mọi panel kế thừa. Không asset khung tải về.
 - **Palette:** panel `#12161c`, viền `#2c3542`, focus/tiêu đề `#d9b26a`, chữ `#e8e4da`, số sát thương `#ffffff`, phần "đổi lại" của buff `#c0695a` (không dùng đỏ telegraph địch).
 - **Font:** VT323 (Peter Hull, SIL OFL 1.1) tại `assets/ui/fonts/vt323.ttf` (toàn văn license `OFL-VT323.txt` cùng thư mục), ghi `assets/ASSET_LOG.md` (nguồn, ngày, license, sha256). Antialiasing/hinting/subpixel đặt tắt trong `Hd2dTheme.build()`. Cỡ chữ = **bội số nguyên của 16 px** (16 body / 32 title) — 16 px là lưới terminal 8×16 gốc của font, nên không resample; đơn vị đúng là chiều cao cell của font, không phải texel world.
-- **Coverage tiếng Việt:** m5x7 đã bị loại (cmap thiếu 17 glyph copy cần — `Ơ ơ Ư Ạ ạ Ầ Ậ Ắ Ế Ệ Ị Ổ Ộ Ớ Ở Ỳ` và em dash), VT323 phủ 567 codepoint và qua gate. Gate bắt buộc: `tests/test_font_coverage.gd` assert `font.has_char()` với **toàn bộ** ký tự UI copy (hiện 79 glyph, 0 missing); negative control với ký tự ngoài bảng mã phải đỏ. Nếu fail: hoặc copy UI rút về Latin (chấp nhận mất dấu), hoặc thêm fallback font (ghi DECISIONS) — **không** tự đổi font im lặng.
+- **Coverage tiếng Việt:** m5x7 đã bị loại (cmap thiếu 17 glyph copy cần — `Ơ ơ Ư Ạ ạ Ầ Ậ Ắ Ế Ệ Ị Ổ Ộ Ớ Ở Ỳ` và em dash), VT323 phủ 567 codepoint và qua gate. Gate bắt buộc: `tests/test_font_coverage.gd` assert `font.has_char()` với **toàn bộ** ký tự UI copy (hiện 98 glyph, 0 missing); negative control với ký tự ngoài bảng mã phải đỏ. Nếu fail: hoặc copy UI rút về Latin (chấp nhận mất dấu), hoặc thêm fallback font (ghi DECISIONS) — **không** tự đổi font im lặng.
 - **Hình học:** panel 480×352, card 160×220, spacing 8/16 (chia hết 4); vị trí/tọa độ integer px; outline 2–4 px như HUD hiện tại. Hộp sheet lớn lên theo nội dung và luôn nằm trên lưới 4 px (T-030 thêm hai hàng wave/seed).
 - **Motion:** card stagger 0.05 s, fade+scale 0.12 s EASE_OUT; số sát thương 0.55 s. Không shake/flash toàn màn hình.
 
